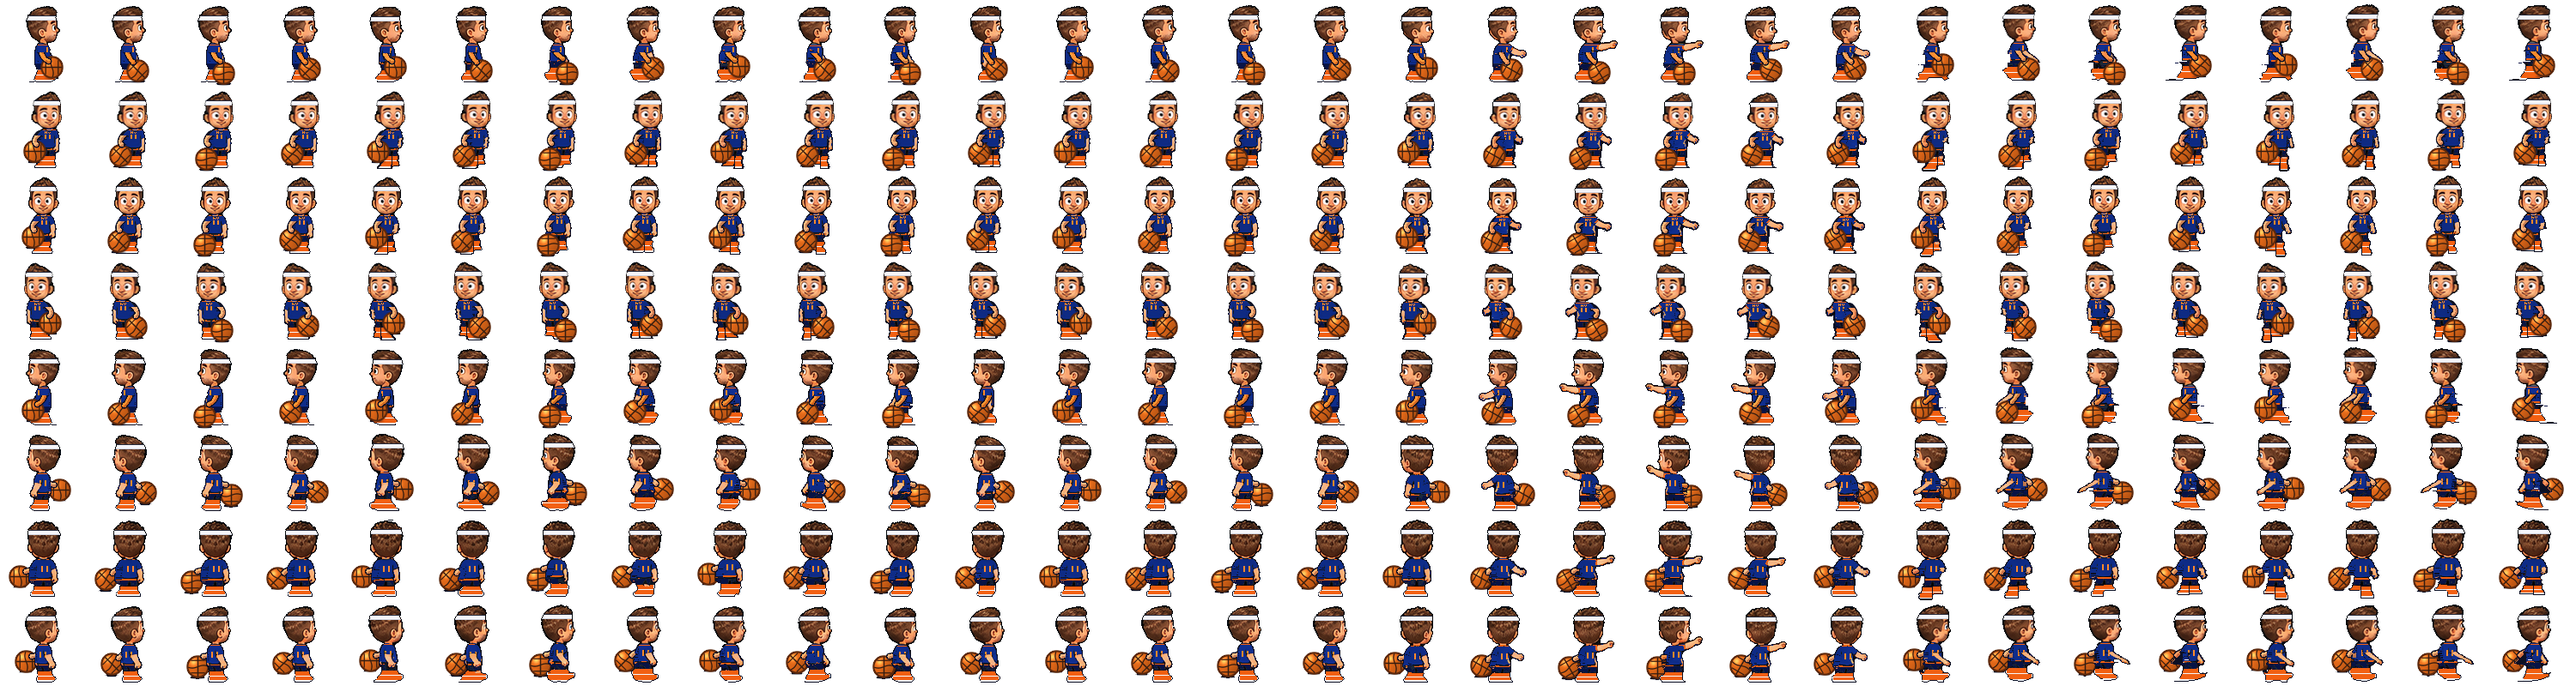
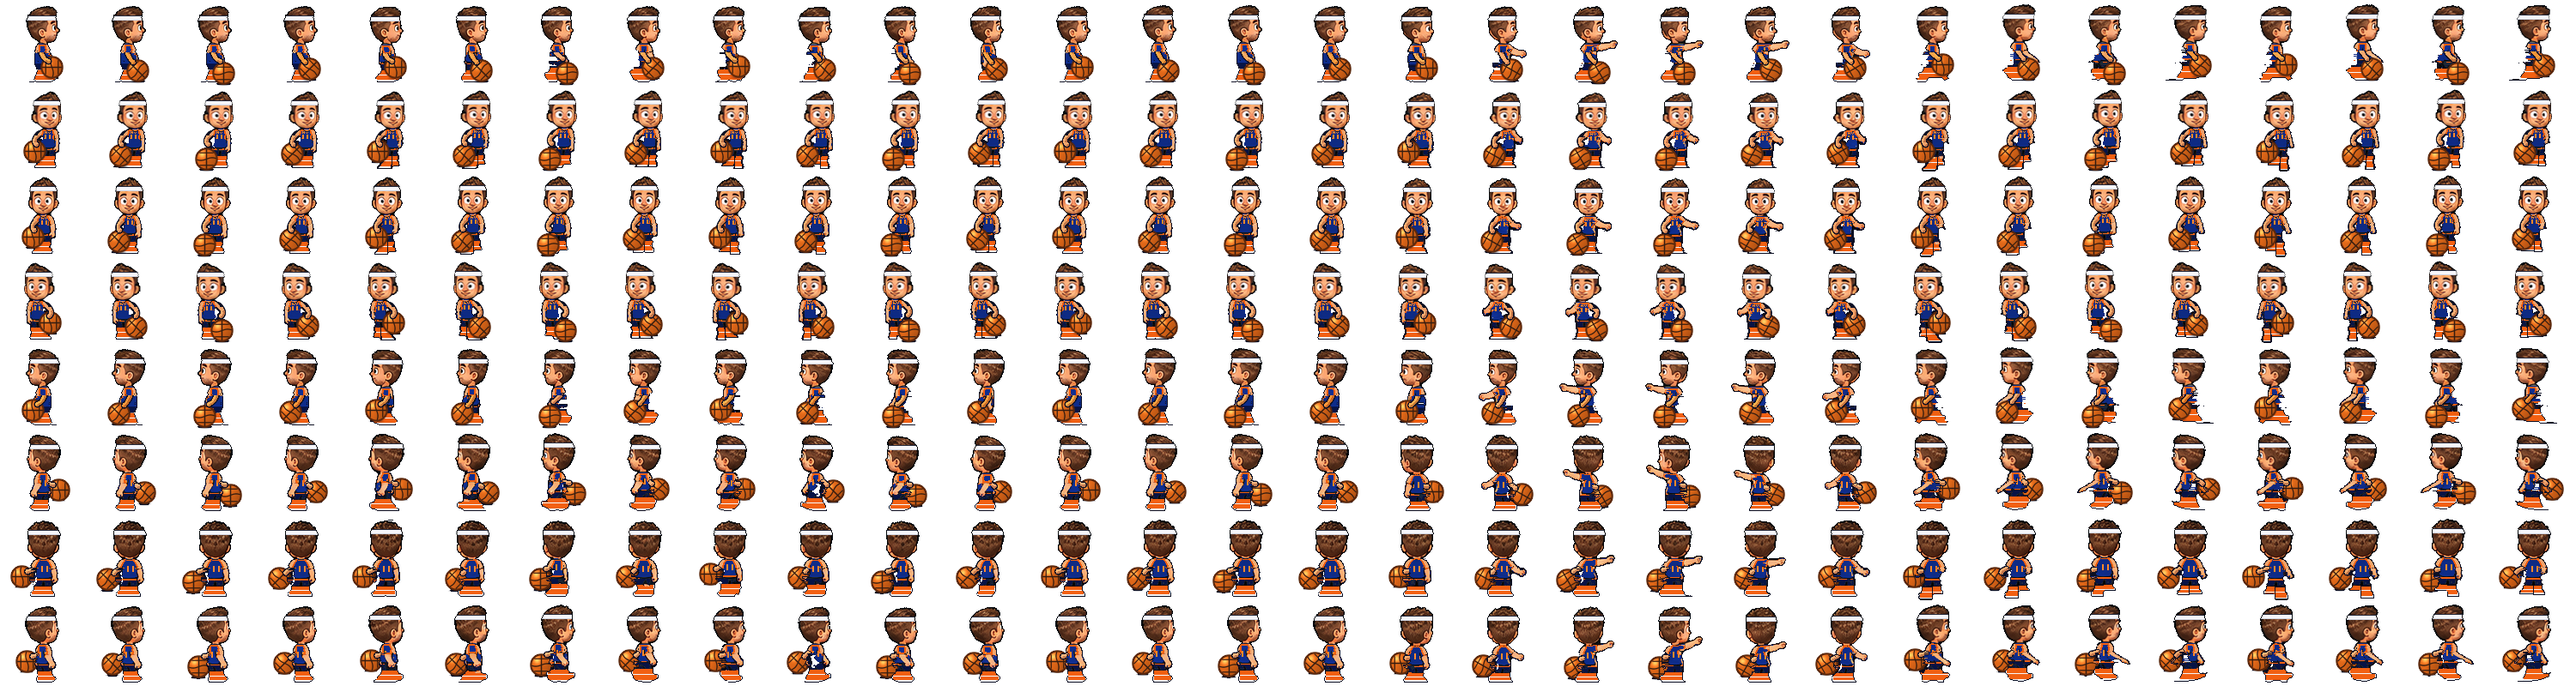
Make the jersey a sleeveless tank and drop the extra arm.
The old dribble limb was being rebuilt as navy beside the torso, so the back view grew a second blue arm. That limb is no longer part of the shirt, and the stray check flags it in every direction. The tee's shoulder caps are bare skin with orange armholes and a shallow scoop neck.

diff --git a/phaser-tag-client/tools/make_basketball_skin.py b/phaser-tag-client/tools/make_basketball_skin.py
@@ -9,9 +9,9 @@ Same columns, rows and animation ranges as kid.png. Frames are padded
 same row as James (see src/skins.ts).
 
 Per frame:
-  1. T-shirt -> navy jersey with orange neck, armhole and hem trim;
-     front views get an orange NEW YORK wordmark and number 11, back
-     views a larger 11, profiles a 1 on the facing flank;
+  1. T-shirt -> sleeveless navy tank with orange neck, armhole and hem
+     trim; bare shoulders. Front views get an orange NEW YORK wordmark
+     and number 11, back views a larger 11, profiles a 1 on the facing flank;
   2. shorts -> navy with an orange leg hem;
   3. both arms stay bare skin, the same tone as James;
   4. white headband across the forehead (wraps the hair on back views);
@@ -339,6 +339,66 @@ def shadow_layer(size, gx: float, gy: float, strength: float) -> np.ndarray:
     return down(col, alpha, size)
 
 
+def _sample_skin(f: np.ndarray, g: Geometry) -> np.ndarray:
+    """Mid skin tone from the arms and face, for the bare shoulders."""
+    yy = np.arange(f.shape[0])[:, None]
+    r = f[..., 0].astype(np.int16)
+    gg = f[..., 1].astype(np.int16)
+    b = f[..., 2].astype(np.int16)
+    sk = (
+        (f[..., 3] > 200) & (r > 170) & (gg > 110) & (b > 60)
+        & (r - b > 30) & (yy > g.top + 8) & (yy < g.hem)
+    )
+    samples = f[sk][:, :3].astype(np.float64)
+    if len(samples) < 8:
+        return np.array([232.0, 168.0, 120.0])
+    return np.median(samples, axis=0)
+
+
+def _sleeve_caps(jersey: np.ndarray, g: Geometry) -> np.ndarray:
+    """Outer shoulder of the t-shirt. A tank leaves that as bare skin.
+
+    The center of each shoulder row stays navy (the strap). The pixels
+    out toward the arm become the armhole.
+    """
+    h, w = jersey.shape
+    cap = np.zeros((h, w), dtype=bool)
+    cx = float(g.head_cx)
+    y0 = int(g.neck) + 2
+    y1 = int(g.neck) + 13
+    for y in range(max(0, y0), min(h, y1)):
+        xs = np.nonzero(jersey[y])[0]
+        if len(xs) < 10:
+            continue
+        width = int(xs.max() - xs.min())
+        cut = 4 if width >= 16 else (3 if width >= 12 else 2)
+        left = min(int(xs.min()) + cut, int(cx) - 4)
+        right = max(int(xs.max()) - cut, int(cx) + 4)
+        if right - left < 6:
+            continue
+        cap[y, xs[xs < left]] = True
+        cap[y, xs[xs > right]] = True
+    return cap
+
+
+def _armhole_edge(jersey: np.ndarray, g: Geometry) -> np.ndarray:
+    """Orange trim down both armholes, from the strap to the armpit."""
+    h, _w = jersey.shape
+    edge = np.zeros_like(jersey)
+    y0 = int(g.neck) + 2
+    y1 = int(g.neck) + 14
+    for y in range(max(0, y0), min(h, y1)):
+        xs = np.nonzero(jersey[y])[0]
+        if len(xs) < 4:
+            continue
+        edge[y, int(xs[0])] = True
+        edge[y, int(xs[-1])] = True
+        if len(xs) > 8:
+            edge[y, int(xs[1])] = True
+            edge[y, int(xs[-2])] = True
+    return edge
+
+
 def paint_uniform(f: np.ndarray, g: Geometry, direction: str) -> tuple[np.ndarray, np.ndarray, np.ndarray]:
     """Recolour clothes. Returns (rgba, jersey mask, hand mask)."""
     f = close_streaks(f, g.neck + 2)
@@ -359,6 +419,9 @@ def paint_uniform(f: np.ndarray, g: Geometry, direction: str) -> tuple[np.ndarra
     waist = g.hem - 9
     clothes = a & (yy > g.neck) & ~sk & ~outline & ~hands
     jersey = clothes & (yy <= waist + 1)
+    # sleeveless: the outer shoulder of the tee is skin, not a sleeve cap
+    caps = _sleeve_caps(jersey, g)
+    jersey = jersey & ~caps
     shorts = clothes & (yy > waist) & (yy < g.hem + 2)
     shins = a & sk & (yy >= g.hem) & ~arms & ~hands
     shoes = a & (yy >= g.hem + 2) & ~sk & ~shins & ~arms
@@ -368,6 +431,11 @@ def paint_uniform(f: np.ndarray, g: Geometry, direction: str) -> tuple[np.ndarra
     # so anti-aliased shirt pixels can't turn into a speckled halo.
     rgb = np.where((jersey & ~rim)[..., None], shade(NAVY, L, 0.78, 1.12), rgb)
     rgb = np.where((shorts & ~rim)[..., None], shade(NAVY_DARK, L, 0.85, 1.15), rgb)
+    # bare shoulders. The shirt luminance would paint them brown, so the
+    # tone comes from his skin, and the outline pass inks the rim after.
+    if caps.any():
+        rgb = np.where(caps[..., None], _sample_skin(f, g), rgb)
+        out[caps, 3] = 255
 
     arm = tagging_arm(arms | (outline & grow(arms, a, 1)), g, direction)
     fist = fist_mask(arm & ~rim, g, direction)
@@ -379,12 +447,15 @@ def paint_uniform(f: np.ndarray, g: Geometry, direction: str) -> tuple[np.ndarra
     jtop, jbot = torso_rows(jersey & inner)
     if jtop is not None:
         neck = jersey & inner & (yy <= jtop + 1) & (yy > g.neck + 1)
+        # a shallow scoop in the center of the neckline
+        scoop = jersey & inner & (yy == jtop + 2) & (np.abs(xx - g.head_cx) <= 4)
         hem = jersey & inner & (yy >= jbot - 1)
-        rgb = np.where(neck[..., None], ORANGE, rgb)
+        rgb = np.where((neck | scoop)[..., None], ORANGE, rgb)
         rgb = np.where(hem[..., None], ORANGE, rgb)
-    # orange armhole on the shirt only, where either arm leaves the jersey
-    shoulder = jersey & inner & grow(arms, a, 1) & (yy > g.neck) & (yy <= g.neck + 8)
-    rgb = np.where(shoulder[..., None], ORANGE, rgb)
+    # armholes: both edges of the tank, plus where an arm leaves the shirt
+    armhole = _armhole_edge(jersey & inner, g)
+    armhole |= jersey & inner & grow(arms, a, 1) & (yy > g.neck) & (yy <= g.neck + 14)
+    rgb = np.where(armhole[..., None], ORANGE, rgb)
     if shorts.any():
         ys = np.nonzero((shorts & inner).any(axis=1))[0]
         if len(ys):
@@ -1067,6 +1138,32 @@ def _further_back(x: int, than: int, side: float) -> bool:
     return x < than if side < 0 else x > than
 
 
+def _core_edges(xs: np.ndarray, cx: float) -> tuple[int, int] | None:
+    """The torso run nearest the chest, ignoring a limb that split off."""
+    if len(xs) < 10:
+        return None
+    xs = np.asarray(xs)
+    splits = np.where(np.diff(xs) > 2)[0]
+    best = None
+    best_key = None
+    start = 0
+    for b in list(splits) + [len(xs) - 1]:
+        chunk = xs[start:int(b) + 1]
+        start = int(b) + 1
+        if len(chunk) < 10 or int(chunk[-1] - chunk[0]) < 11:
+            continue
+        if chunk[0] <= cx <= chunk[-1]:
+            key = (0, -(int(chunk[-1] - chunk[0])))
+        else:
+            key = (1, min(abs(int(chunk[0] - cx)), abs(int(chunk[-1] - cx))))
+        if best_key is None or key < best_key:
+            best_key = key
+            best = chunk
+    if best is None:
+        return None
+    return int(best[0]), int(best[-1])
+
+
 def _torso_back_edge(opaque: np.ndarray, arm_mask: np.ndarray,
                      g: Geometry, side: float) -> int | None:
     """Back edge of the torso, from chest rows the dribble arm does not cover.
@@ -1137,6 +1234,15 @@ def body_required(src: np.ndarray, g: Geometry, direction: str,
         else:
             cut = arm_mask[y] & (xs > target)
         required[y, cut] = False
+        # a limb hanging beside a full torso is not the shirt, even when
+        # it lines up with the shoulder. Rebuilding it draws a second arm.
+        core = _core_edges(np.nonzero(opaque[y] & ~arm_mask[y])[0], g.head_cx)
+        if core is not None:
+            lo, hi = core
+            if side < 0:
+                required[y, arm_mask[y] & (xs < lo)] = False
+            else:
+                required[y, arm_mask[y] & (xs > hi)] = False
     return required
 
 
@@ -1241,13 +1347,22 @@ def rebuild_hidden_body(body: np.ndarray, src: np.ndarray, g: Geometry,
     return out
 
 
+def _is_skin_px(px: np.ndarray) -> np.ndarray:
+    r = px[..., 0].astype(np.int16)
+    g = px[..., 1].astype(np.int16)
+    b = px[..., 2].astype(np.int16)
+    return (px[..., 3] > 40) & (r > 160) & (g > 100) & (b > 60) & (r - b > 30) & (g > b)
+
+
 def stray_fragments(merged: np.ndarray, required: np.ndarray, direction: str,
                     shoulder, elbow, hand, bx: float, by: float,
-                    gx: float, gy: float) -> np.ndarray:
+                    gx: float, gy: float,
+                    arm_mask: np.ndarray | None = None) -> np.ndarray:
     """Opaque pixels that are not the full body, the ball, or the new arm.
 
-    `required` is James's body with the torso and legs filled in behind
-    the dribble arm. A shard past that contour is still a fragment.
+    `required` is the torso, head and legs. A shard beside that contour
+    counts in every direction, not only behind a side-view hip. The old
+    dribble limb is one of those shards when it was repainted as a sleeve.
     """
     keep = required
     # inside that silhouette, including a one-pixel outline. A fin that
@@ -1255,43 +1370,34 @@ def stray_fragments(merged: np.ndarray, required: np.ndarray, direction: str,
     shell = np.where(_dilate(keep, 1), np.uint8(255), np.uint8(0))
     allowed = ~_outside_clear(shell, thresh=24)
     h, w = merged.shape[:2]
-    allowed |= _zone_arm(h, w, shoulder, elbow, hand)
-    allowed |= _zone_ball(h, w, bx, by)
-    allowed |= _zone_shadow(h, w, gx, gy)
+    # the drawn arm only. A fatter pad was hiding the old sleeve beside it.
+    stroke = _zone_arm(h, w, shoulder, elbow, hand, pad=1.0)
+    pose = stroke | _zone_ball(h, w, bx, by) | _zone_shadow(h, w, gx, gy)
+    allowed |= pose
     raw = (merged[..., 3] > 80) & ~allowed
-    if not raw.any():
-        return raw
-    # a repaired slit sits inside the shirt. A shard is a patch that touches
-    # the outside, so only those components count.
-    a = merged[..., 3] > 40
-    pad = np.pad(~a, 1, constant_values=True)
-    touches = pad[:-2, 1:-1] | pad[2:, 1:-1] | pad[1:-1, :-2] | pad[1:-1, 2:]
-    exposed = np.zeros_like(raw)
-    for comp in components8(raw):
-        if (comp & touches).any():
-            exposed |= comp
-    # a fin tucked against the hip is enclosed by the foot on the next
-    # row, so the flood above never sees it. It is still past the body.
-    side = _dribble_side(direction)
-    h, w = merged.shape[:2]
-    xs = np.arange(w)[None, :]
-    back = np.full(h, -1, dtype=np.int16)
-    for y in range(h):
-        rb = _back_of(np.nonzero(required[y])[0], side)
-        if rb is not None:
-            back[y] = rb
-    has = back >= 0
-    if side < 0:
-        past = has[:, None] & (xs < back[:, None])
-    else:
-        past = has[:, None] & (xs > back[:, None])
-    pose = (
-        _zone_arm(h, w, shoulder, elbow, hand)
-        | _zone_ball(h, w, bx, by)
-        | _zone_shadow(h, w, gx, gy)
-    )
-    fin = past & (merged[..., 3] > 40) & ~pose
-    return exposed | fin
+    exposed = np.zeros((h, w), dtype=bool)
+    if raw.any():
+        # a repaired slit sits inside the shirt. A shard is a patch that touches
+        # the outside, so only those components count.
+        a = merged[..., 3] > 40
+        pad = np.pad(~a, 1, constant_values=True)
+        touches = pad[:-2, 1:-1] | pad[2:, 1:-1] | pad[1:-1, :-2] | pad[1:-1, 2:]
+        for comp in components8(raw):
+            if (comp & touches).any():
+                exposed |= comp
+    # any direction, not only the side-view back edge. The foot on the next
+    # row can enclose a fin so the flood above never sees it.
+    outside = ~_dilate(required, 1)
+    fin = outside & (merged[..., 3] > 40) & ~pose
+    # the old dribble limb, repainted navy, reads as a second arm. Skin on
+    # that mask is the new arm or the hand, and it stays.
+    hanging = np.zeros((h, w), dtype=bool)
+    if arm_mask is not None:
+        hanging = (
+            arm_mask & ~required & ~pose & ~_is_skin_px(merged)
+            & (merged[..., 3] > 40)
+        )
+    return exposed | fin | hanging
 
 
 def clear_stray_fragments(merged: np.ndarray, stray: np.ndarray) -> np.ndarray:
@@ -1391,7 +1497,7 @@ def baller(frame: np.ndarray, direction: str, anim: str, index: int) -> np.ndarr
     merged = fill_enclosed_holes(merged)
     required = body_required(src, g0, direction, arm_mask)
     stray = stray_fragments(
-        merged, required, direction, shoulder, elbow, hand, bx, by, gx, gy)
+        merged, required, direction, shoulder, elbow, hand, bx, by, gx, gy, arm_mask)
     merged = clear_stray_fragments(merged, stray)
     # clearing a shard can open a slit in the shirt; close that, not the fin
     merged = fill_enclosed_holes(merged)
@@ -1401,7 +1507,7 @@ def baller(frame: np.ndarray, direction: str, anim: str, index: int) -> np.ndarr
     merged = clear_past_contour(
         merged, required, direction, shoulder, elbow, hand, bx, by, gx, gy)
     stray = stray_fragments(
-        merged, required, direction, shoulder, elbow, hand, bx, by, gx, gy)
+        merged, required, direction, shoulder, elbow, hand, bx, by, gx, gy, arm_mask)
     merged = clear_stray_fragments(merged, stray)
     return merged
 
@@ -1466,7 +1572,7 @@ def audit_frame(frame: np.ndarray, merged: np.ndarray, direction: str,
         missing &= ~ball
     gx, gy = bx, float(min(by + BALL_R, 99.0))
     stray = stray_fragments(
-        merged, required, direction, shoulder, elbow, hand, bx, by, gx, gy)
+        merged, required, direction, shoulder, elbow, hand, bx, by, gx, gy, arm_mask)
     return int(missing.sum()), int(stray.sum())
 
 

diff --git a/phaser-tag-client/README.md b/phaser-tag-client/README.md
@@ -332,7 +332,7 @@ skin carries its own frame size and feet line. Animation keys are
   `python3 tools/make_pharaoh_skin.py [--preview /tmp/pharaoh.png]`.
 - `basketball`: `public/assets/kid_basketball.png` (100x100 frames, feet on
   y = 96; 10px each side holds the ball). Generated from `kid.png` by
-  `tools/make_basketball_skin.py`. Navy jersey with orange trim, an NY
+  `tools/make_basketball_skin.py`. Navy sleeveless jersey with orange trim, an NY
   wordmark and number 11 on the front (11 on the back), white headband,
   bare arms, and orange sneakers. An
   orange basketball is dribbled in every animation. The ball stays a
